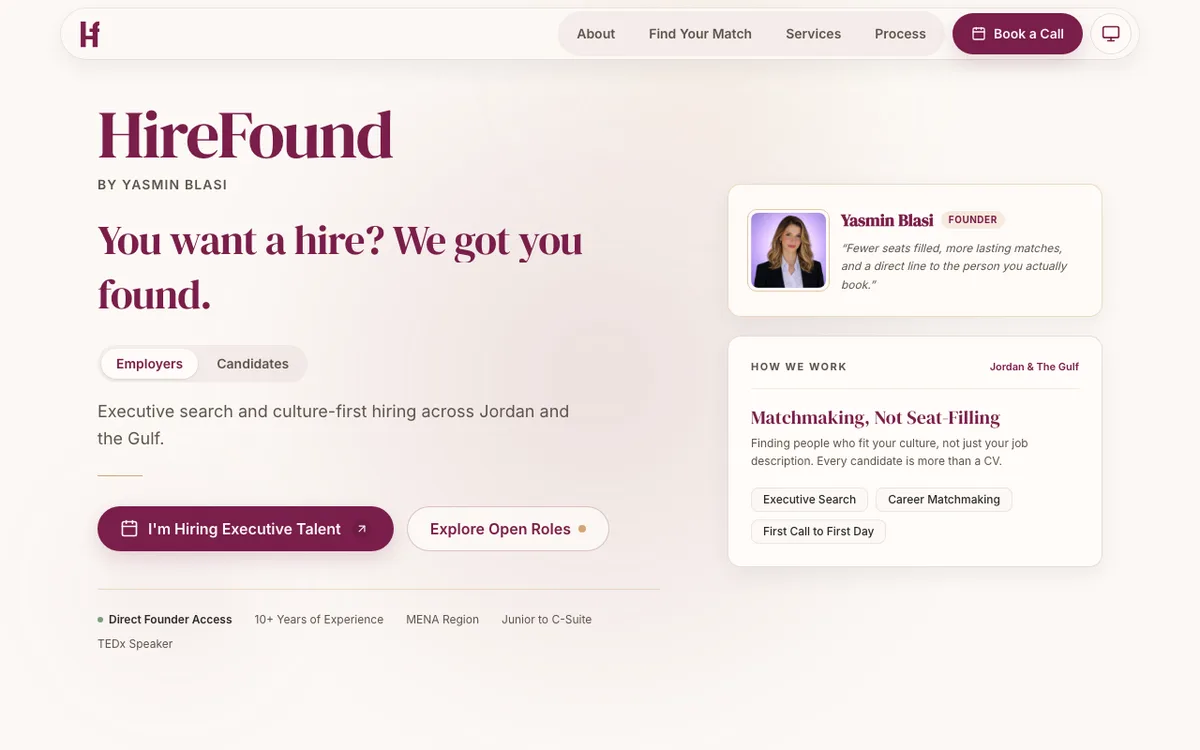
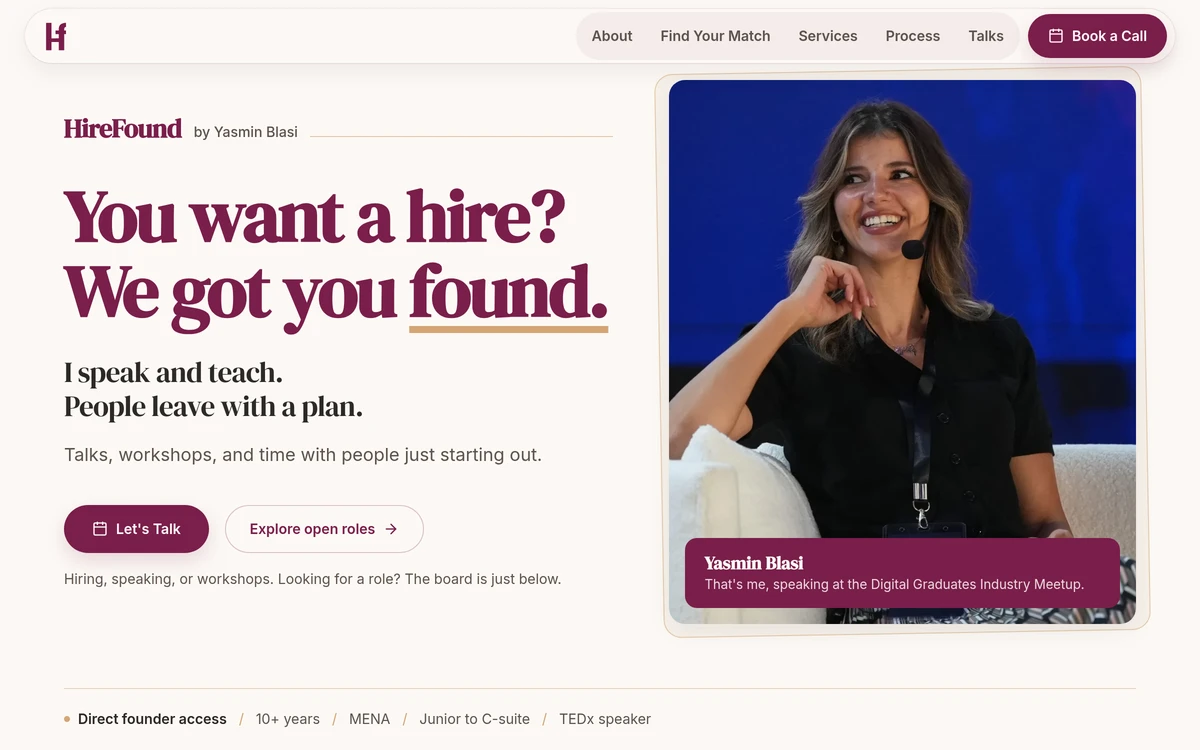
feat(projects): full-width flagship previews and refreshed HireFound screenshot

diff --git a/src/styles/home.css b/src/styles/home.css
@@ -1857,70 +1857,56 @@ body.menu-open {
   }
 }
 
-/* === Alternating Case Study Rhythm on Desktop (min-width: 900px) ===
-   Aura card has preview on the left and content on the right.
-   Nebula card has content on the left and preview on the right (flex-direction: row-reverse).
-   EG Wizard remains a prestigious full-width flagship card. */
+/* === Flagship showcase rhythm on desktop (min-width: 900px) ===
+   Every flagship gets a full-width, uncropped preview so the interfaces read
+   large and complete. Aura and Nebula alternate their content alignment for
+   rhythm; EG Wizard stays a centred editorial block. */
 @media (min-width: 900px) {
   .projects__featured--aura,
-  .projects__featured--nebula {
+  .projects__featured--nebula,
+  .projects__featured--egwizard {
     display: flex;
-    flex-wrap: wrap;
-    flex-direction: row;
+    flex-direction: column;
     align-items: stretch;
   }
 
-  .projects__featured--nebula {
-    flex-direction: row-reverse;
-  }
-
   .projects__featured-preview {
-    flex: 1 1 50%;
-    max-width: 50%;
-    border-bottom: none;
-    border-right: 1px solid rgba(221, 211, 191, 0.15);
+    flex: 0 0 auto;
+    width: 100%;
+    max-width: 100%;
+    border-bottom: 1px solid rgba(221, 211, 191, 0.15);
+    border-right: none;
     display: flex;
     flex-direction: column;
-    min-height: 100%;
   }
 
   .projects__featured--nebula .projects__featured-preview {
     border-right: none;
-    border-left: 1px solid rgba(221, 211, 191, 0.15);
+    border-left: none;
   }
 
-  .projects__featured--aura .projects__featured-content,
-  .projects__featured--nebula .projects__featured-content {
-    flex: 1 1 50%;
-    max-width: 50%;
+  .projects__featured-content {
+    flex: 0 0 auto;
+    width: 100%;
+    max-width: 100%;
     box-sizing: border-box;
     padding: 2.25rem 2.25rem 1.75rem;
     display: flex;
     flex-direction: column;
-    justify-content: space-between;
-  }
-
-  .projects__featured--egwizard .projects__featured-content {
-    padding: 2.25rem 2.25rem 1.75rem;
-    width: 100%;
-    box-sizing: border-box;
-  }
-
-  .projects__featured-stats {
-    flex: 1 1 100%;
-    width: 100%;
-    order: 3;
-    margin-top: 0;
   }
 
   .projects__preview-link {
-    flex: 1;
-    display: flex;
+    display: block;
+    width: 100%;
   }
 
   .projects__preview-img {
-    height: 100%;
-    aspect-ratio: auto;
+    width: 100%;
+    height: auto;
+    max-height: 620px;
+    aspect-ratio: 16 / 9;
+    object-fit: cover;
+    object-position: top center;
   }
 }
 
